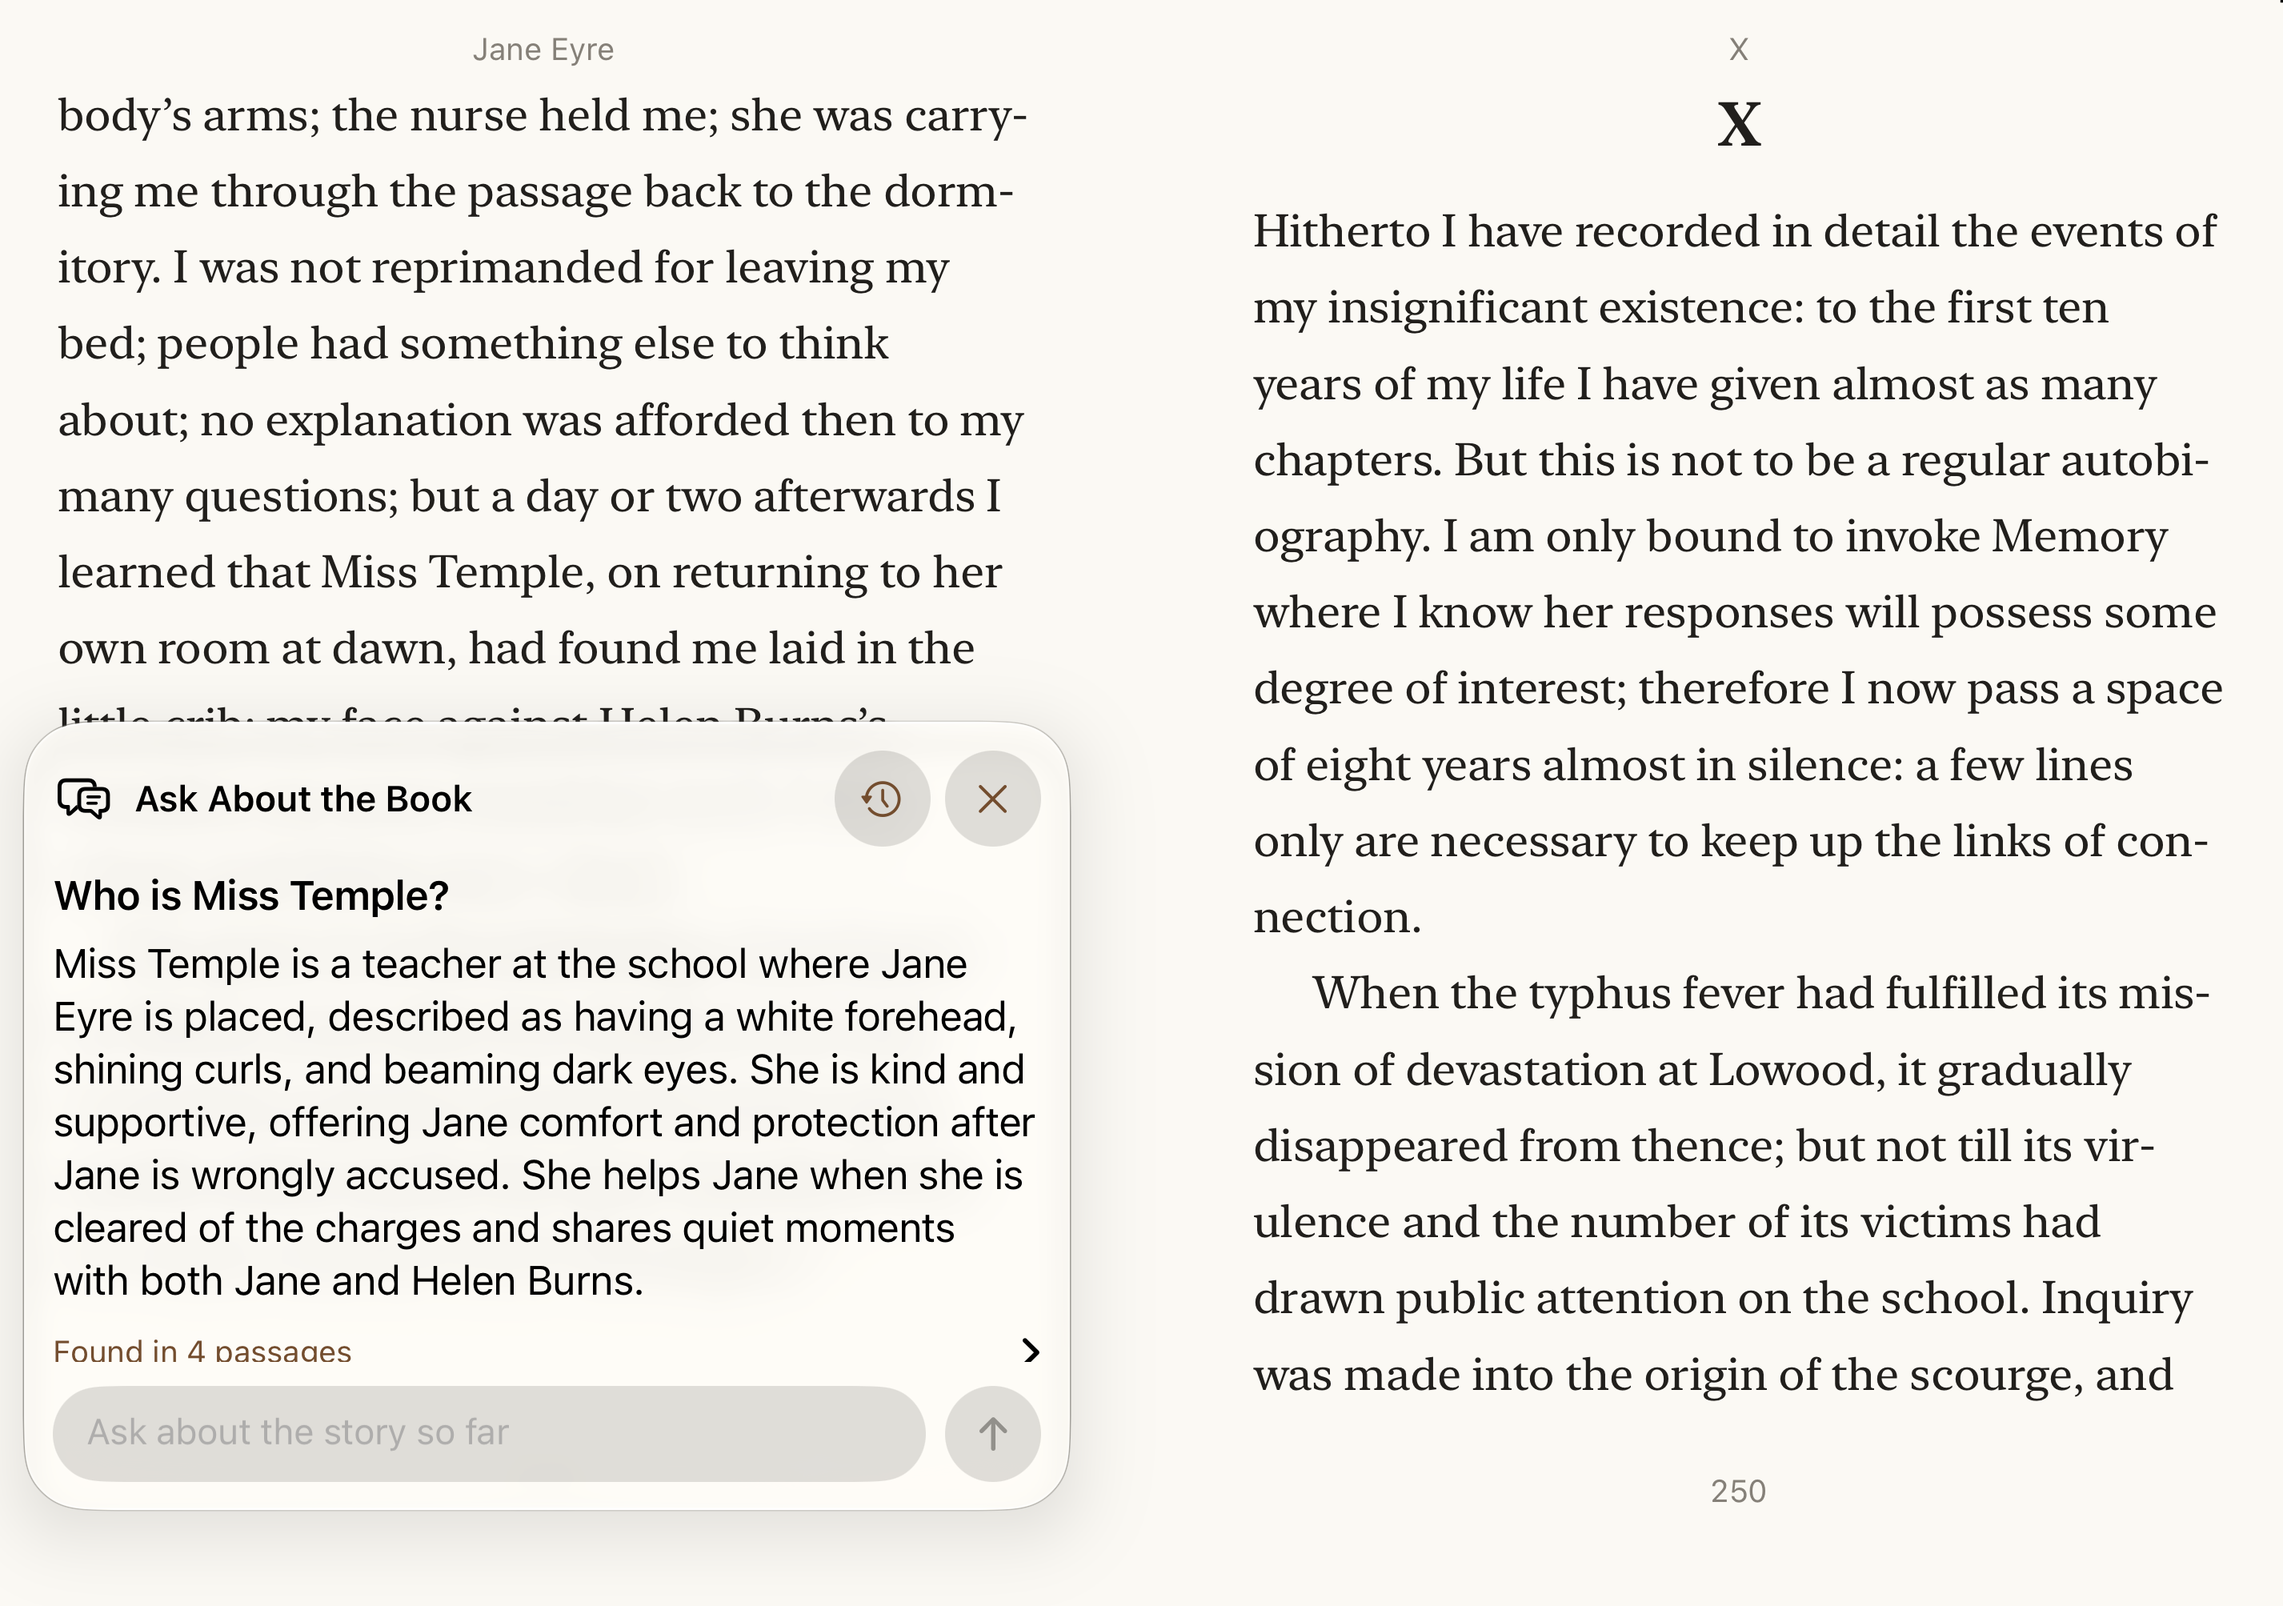
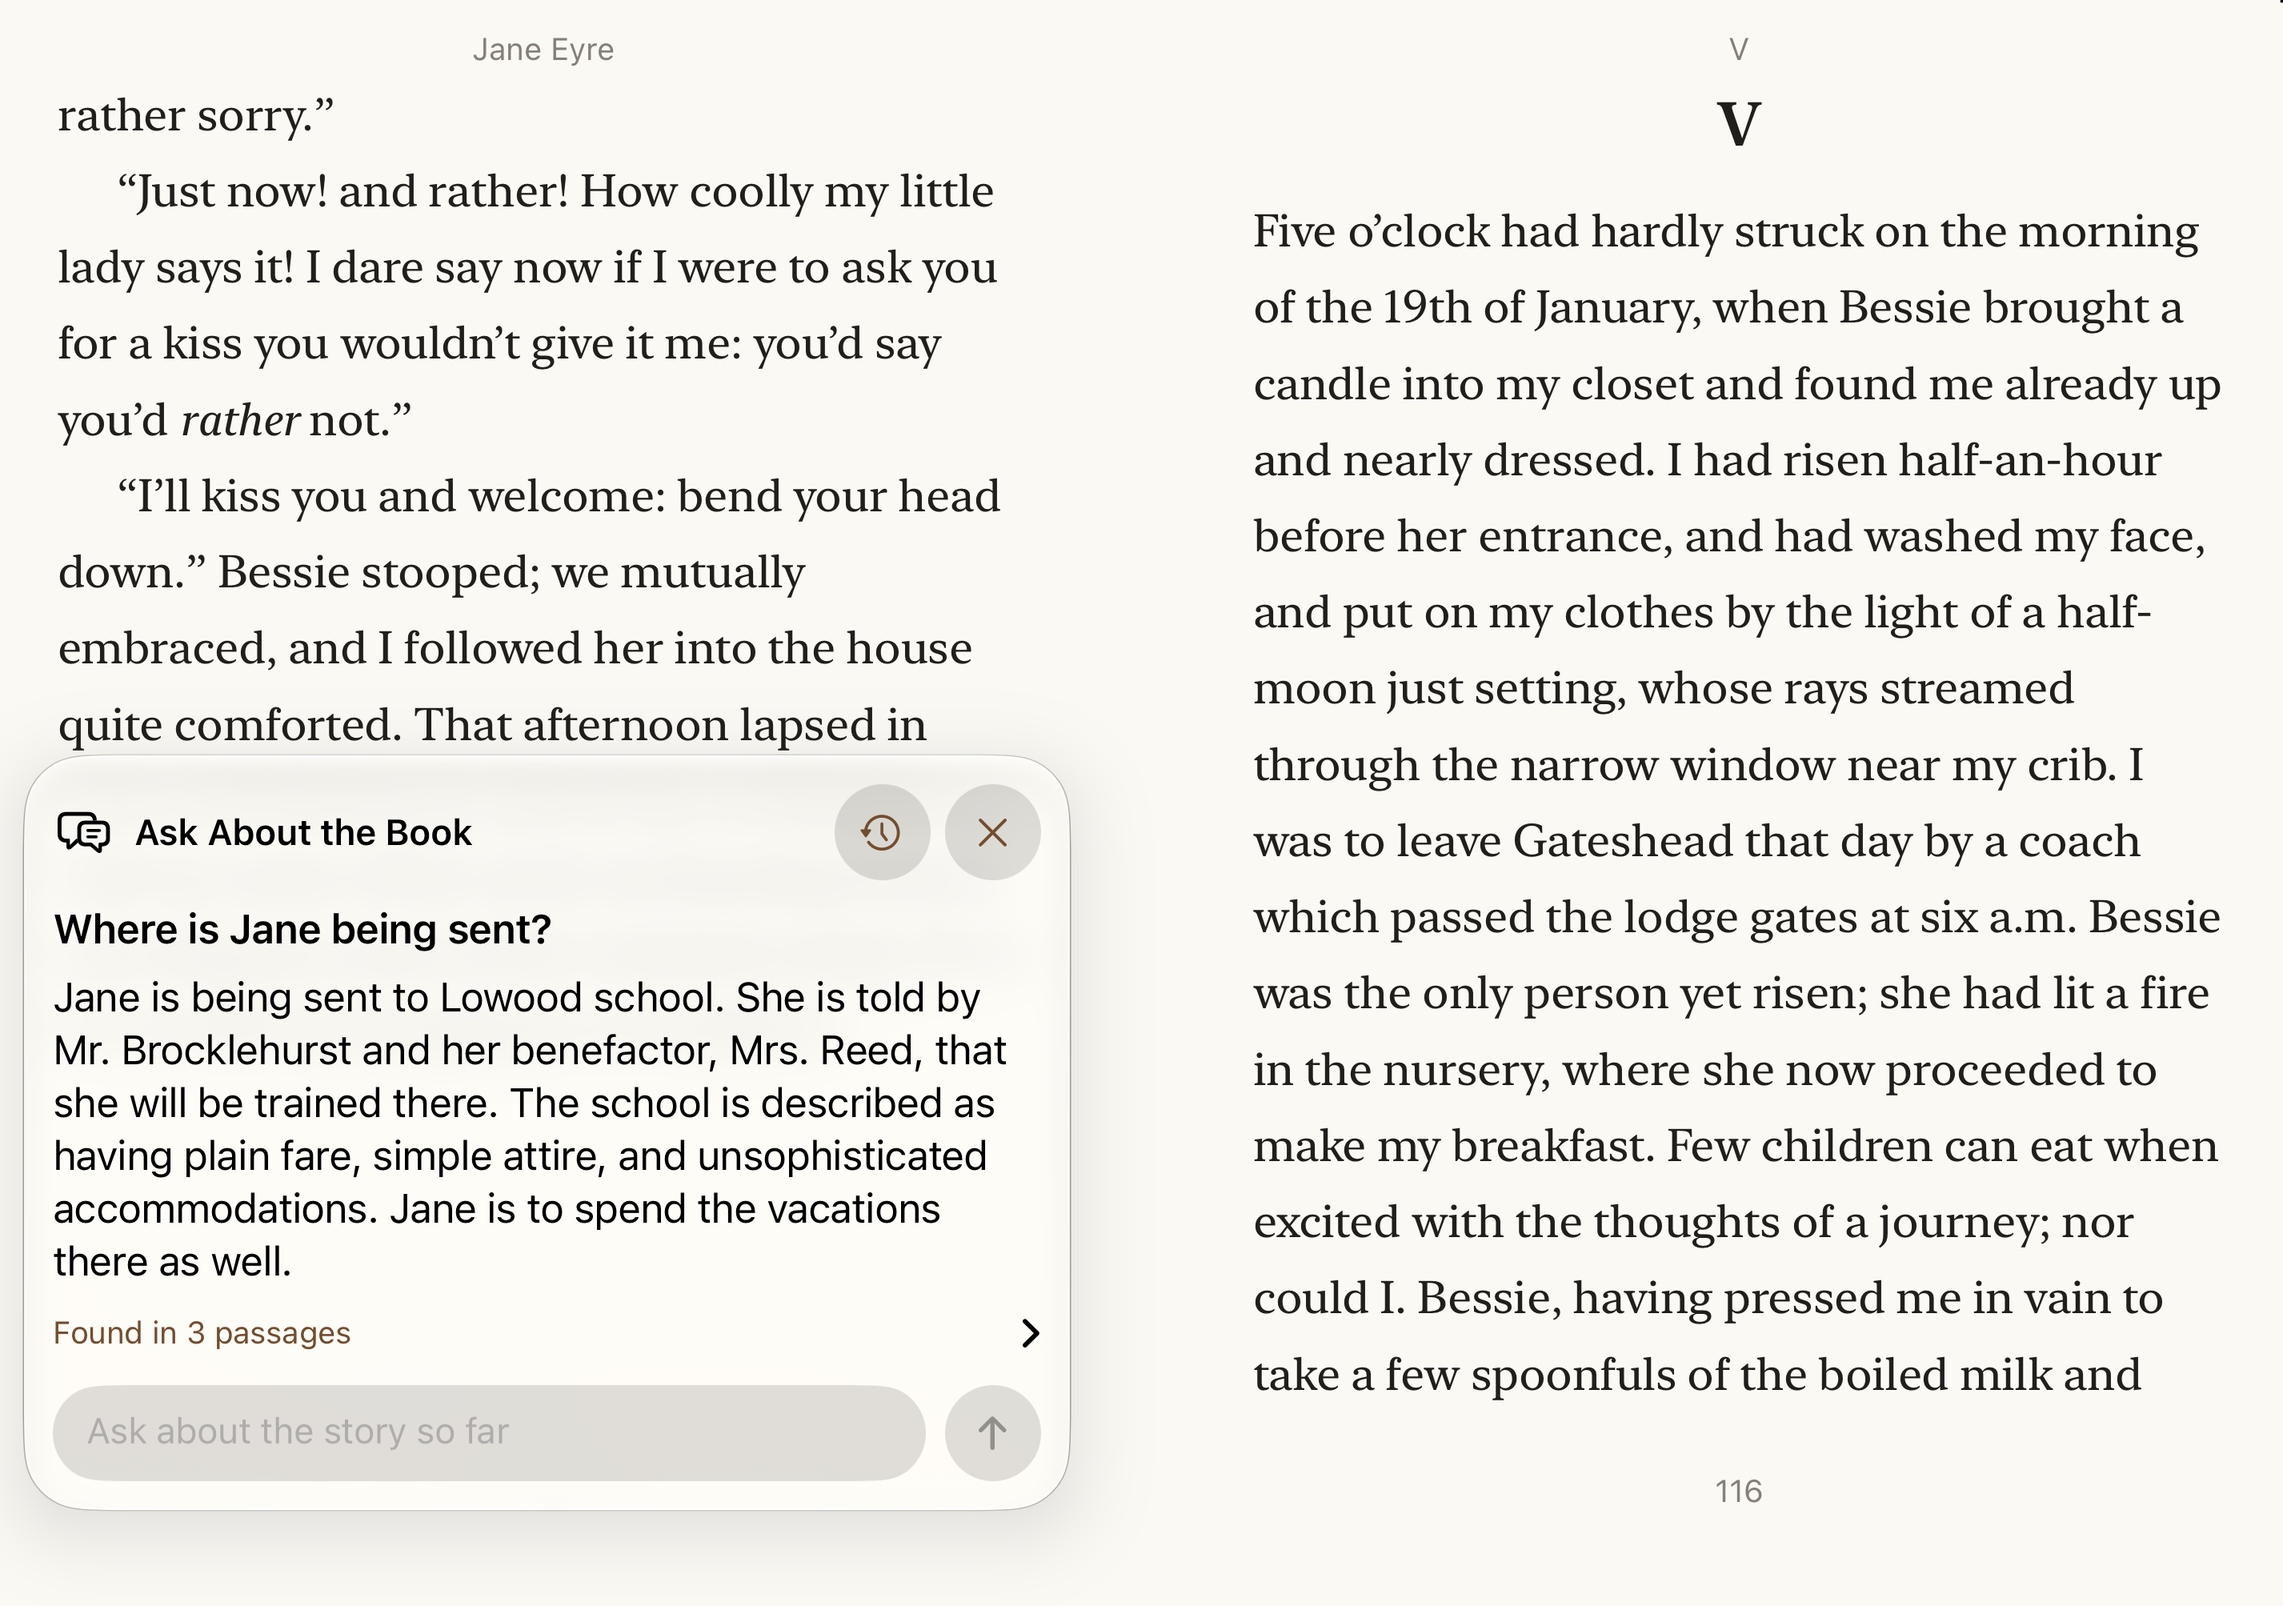
Use an accurate Ask answer on the iPhone Duo screenshot
The Duo's Ask tile asked "Who is Miss Temple?", and the answer called her a teacher; she is the
superintendent. It now asks "Where is Jane being sent?" at chapter V, whose answer fits the panel
over the left page whole and matches chapter IV sentence by sentence. About 40 questions and
places were tried on the Duo and the iPhone; most answers got a detail wrong or ran too long.

scripts/screenshots: ONLY=<regex> re-takes just the matching shots (the rest of OUT is kept), and
the Duo's Ask place and question are DUO_ASK_AT / DUO_ASK_QUESTION. README.md says to read every
Ask transcript against the book before uploading.

Claude-Session: https://claude.ai/code/session_01VcX3TnxvntU8ycRR4TMNYc

diff --git a/marketing/screenshots/README.md b/marketing/screenshots/README.md
@@ -49,13 +49,18 @@ ASC_READ_ONLY=1 asc screenshots download --version-localization <localization id
 
 ## How the new shots are made
 
-- **Ask** (`-SheafsAsk`): opens Jane Eyre at chapter X and asks "Why was Jane sent to Lowood?" (the Duo,
-  whose panel over the left page holds less, asks "Who is Miss Temple?", which gets shorter answers). The answer is
-  whatever the on-device model says on that run; `scripts/screenshots` fails unless the model is available,
-  the answer finished, is more than a few words and cites passages, and asks again (up to 4 times) when an
-  answer is too long for the panel to show whole. Answers differ between runs, so read the `.ask.txt`
-  before uploading and re-run that device if one is wrong. "Who is Mr. Rochester?" at chapter XVIII was
-  tried first and dropped: the model kept getting details wrong (he "visits frequently", "employs Adèle").
+- **Ask** (`-SheafsAsk`): the iPhone and iPad open Jane Eyre at chapter X and ask "Why was Jane sent to
+  Lowood?". The Duo's panel, over the left page, shows only about 340 characters whole, so it asks "Where
+  is Jane being sent?" at chapter V. The answer is whatever the on-device model says on that run;
+  `scripts/screenshots` fails unless the model is available, the answer finished, is more than a few words
+  and cites passages, and asks again (up to 4 times) when an answer is too long for the panel.
+  **Answers differ between runs and the model gets details wrong often**, so read each `.ask.txt` against
+  the book before uploading and re-take that shot if anything is off:
+  `ONLY=inner-landscape-9-ask OUT=/tmp/sheafs-duo-ask /tmp/sheafs-sim/with-sim scripts/screenshots duo`,
+  then copy the PNG and `.ask.txt` into `raw/duo-inner/`. Of about 40 questions tried, most failed:
+  "Who is Mr. Rochester?" (he "visits frequently"), "Who is Miss Temple?" (called a teacher, she is the
+  superintendent), "Who is Bessie?" (put at Lowood, past the reading position), "Who was Mr. Reed?" (made
+  Jane's father).
 - **Highlights and Pencil markup** (`-SheafsHighlightDemo`, `-SheafsMarkupDemo`, DEBUG builds only): the
   simulator has no Pencil and cannot long-press, so these hooks find phrases in the book, make highlights
   through the same path as the selection menu, and draw strokes onto the real markup canvases, which are
